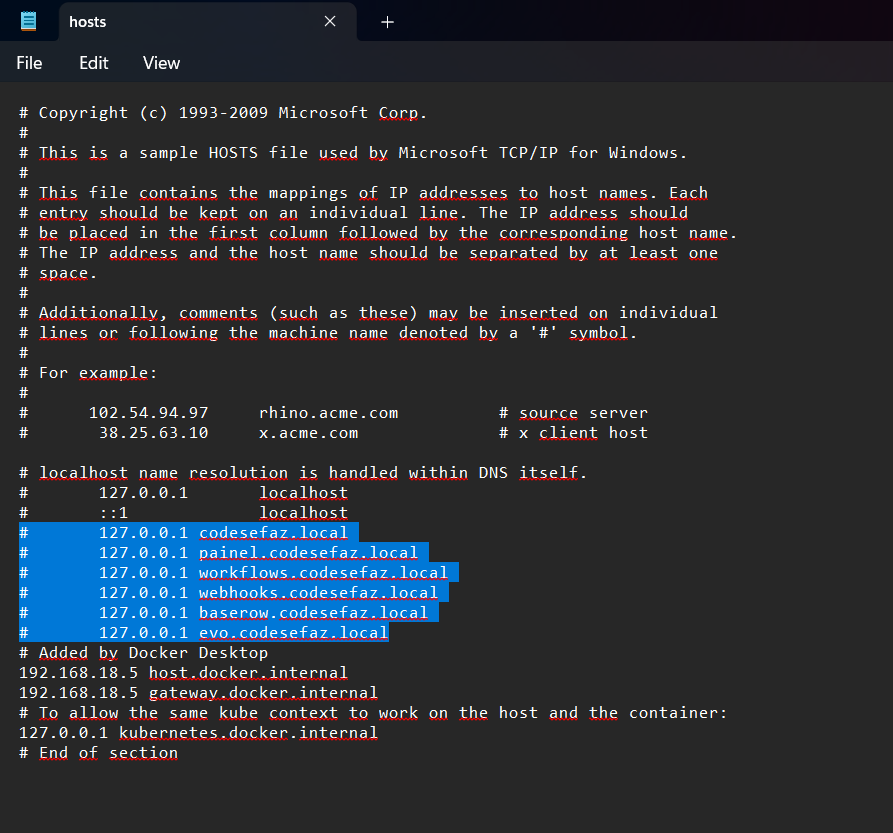
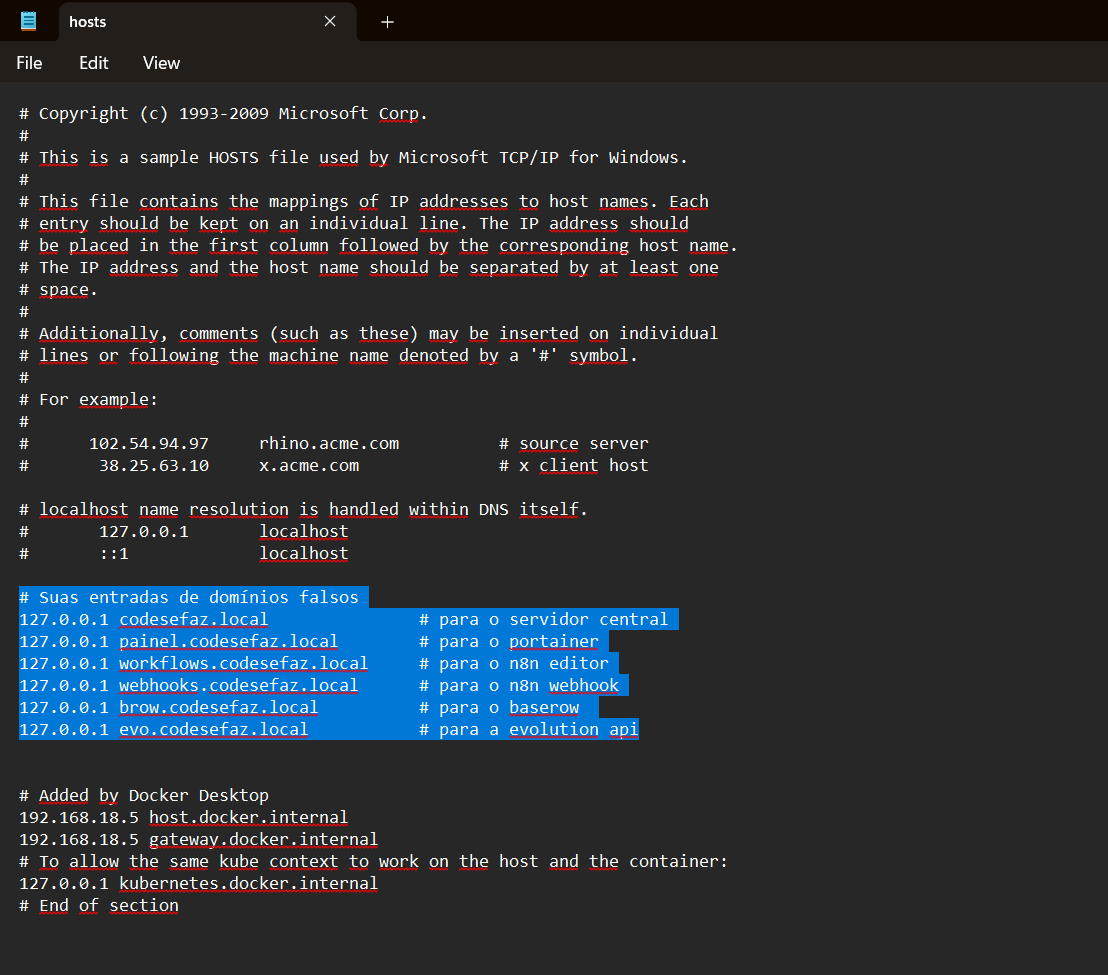
adicionado configuralçao parcial do traefik

Changed region(s): [[0.0, 0.0, 0.8163, 0.9364], [0.2721, 0.0, 0.6954, 0.0624]]

diff --git a/index.html b/index.html
@@ -640,7 +640,7 @@ sudo systemctl enable containerd.service
                             </li>
                             <li>
                                 <details>
-                                    <summary class="class-title">Aula 05 - Ativação do Modo Swarm no Docker</summary>
+                                    <summary class="class-title">Aula 05 - Ativação do <mark>Modo Swarm</mark> no Docker</summary>
 
                                     <div class="class-notes">
                                         <p>Ainda no manager do seu <mark>SSH</mark> copie e cole o código para iniciar o modo <mark>Swarm</mark> do Docker</p>
@@ -667,7 +667,7 @@ docker swarm init --advertise-addr=45.185.229.160
                                         <br>
                                         <div class="bash-code-notes">
                                             <div class="bash-code-notes-border"><h1>bash - Rede do Swarm</h1><pre><code class="language-bash">
-                                                docker network create --driver=overlay network_swarm_public
+docker network create --driver=overlay network_swarm_public
                                             </code></pre></div>
                                         </div>
                                     </div>
@@ -1443,18 +1443,34 @@ CREATE DATABASE baserow;
                             </li>
                             <li>
                                 <details>
-                                    <summary class="class-title">Passo 02 - Escolha um <mark>Domínio Falso</mark> Local:</summary>
+                                    <summary class="class-title">Passo 02 - Ativação do <mark>Modo Swarm</mark> no Docker</summary>
 
                                     <div class="class-notes">
-                                        <p>Como você não terá um domínio público, você usará um domínio que só existe na sua máquina local. Algo como <mark>codesefaz.local</mark></p>
+                                        <p>Agora que o <mark>docker</mark> está instalado na sua máquina, para ativar o <mark>modo swarm</mark> abra o terminal e digite o código</p>
+                                        <br>
+                                        <div class="bash-code-notes">
+                                            <div class="bash-code-notes-border"><h1>bash - Inicia o Swarm</h1><pre><code class="language-bash">
+docker swarm init
+                                            </code></pre></div>
+                                        </div>
+                                        <br>
+                                        <p>Agora para adicionar uma <mark>rede</mark> para o <mark>Swarm</mark></p>
+                                        <br>
+                                        <div class="bash-code-notes">
+                                            <div class="bash-code-notes-border"><h1>bash - Rede do Swarm</h1><pre><code class="language-bash">
+docker network create --driver=overlay network_swarm_public
+                                            </code></pre></div>
+                                        </div>
                                     </div>
                                 </details>
                             </li>
                             <li>
                                 <details>
-                                    <summary class="class-title">Passo 03 - Configurar a Resolução de Nomes Local <mark>(/etc/hosts)</mark></summary>
+                                    <summary class="class-title">Passo 03 - Configurar um <mark>Domínio Falso</mark> Local:<mark>(/etc/hosts)</mark></summary>
 
                                     <div class="class-notes">
+                                        <p>Como você não terá um domínio público, você usará um domínio que só existe na sua máquina local. Algo como <mark>codesefaz.local</mark></p>
+                                        <br>
                                         <p>Para que seu computador saiba que <mark>codesefaz.local</mark> e seus subdomínios (como <mark class="blue-mark">painel.codesefaz.local</mark> <small><i>( para o <mark>portainer</mark> )</i></small>, ou <mark class="blue-mark">workflows.codesefaz.local</mark> <small><i>( para o editor do <mark>n8n</mark> )</i></small> ) apontam para o seu próprio computador (localhost), você precisa editar o arquivo de hosts do seu sistema operacional.</p>
                                         <br>
                                         <p>No Windows: Edite o arquivo <mark>C:\Windows\System32\drivers\etc\hosts</mark> <small><i>( precisa de permissões de administrador )</i></small>.</p>
@@ -1466,13 +1482,117 @@ CREATE DATABASE baserow;
                                                 <br>127.0.0.1 painel.codesefaz.local <small><i>( para o portainer )</i></small>
                                                 <br>127.0.0.1 workflows.codesefaz.local <small><i>( para o n8n editor )</i></small>
                                                 <br>127.0.0.1 webhooks.codesefaz.local <small><i>( para o n8n webhook )</i></small>
-                                                <br>127.0.0.1 baserow.codesefaz.local <small><i>( para o baserow talvez melhor trocar o nome )</i></small>
+                                                <br>127.0.0.1 brow.codesefaz.local <small><i>( para o baserow talvez melhor trocar o nome )</i></small>
                                                 <br>127.0.0.1 evo.codesefaz.local <small><i>( para a evolution api )</i></small>
                                             </div>
                                         </p>
                                         <img src="assets/images/moduloLocalhost_passo03_02.png" alt="">
                                         <p><mark>No windows para conseguir salvar o arquivo depois de modificar você precisar abrir primeiro o bloco de notas em modo administrador e depois atravez do bloco de notas abrir a pasta e o arquivo, só assim será possível fazer as mudanças pois é um sistema de segurança do windows</mark></p>
+                                    </div>
+                                </details>
+                            </li>
+                            <li>
+                                <details>
+                                    <summary class="class-title">Passo 04 - configurar o certificado usando o <mark>mkcert</mark></summary>
 
+                                    <div class="class-notes">
+                                        <p>Você tem 3 opções para fazer essa instalação, usando o <mark>Chocolatey ou Scoop</mark> são as mais fáceis ou da <mark>forma manual</mark> mesmo que dá um pouco de trabalho</p>
+                                        <br>
+                                        <p><mark>Antes de realizar a instalação precisa já ter o docker instalado e os domínios configurados</mark></p>
+                                        <br>
+                                        <p>Método 3: Instalação Manual</p>
+                                        <br>
+                                        <p>Você pode baixar o executável <mark>mkcert.exe</mark> diretamente da página de releases do GitHub ( <a href="https://github.com/FiloSottile/mkcert/releases">mkcert/releases</a> ), mas você precisará colocá-lo em um diretório que esteja no seu PATH do sistema para poder executá-lo de qualquer lugar. </p>
+                                        <br>
+                                        <p>Role para baixo até a seção "Assets" da versão mais recente. Procure por um arquivo com um nome como <mark class="blue-mark">mkcert-vX.Y.Z-windows-amd64.exe</mark></p>
+                                        <br>
+                                        <p><mark>Renomeie este arquivo</mark> simplesmente para <mark class="blue-mark">mkcert.exe</mark></p>
+                                        <br>
+                                        <div class="left-text-aling">
+                                            <h3>Abra o Explorador de Arquivos.</h3>
+                                            <br>Navegue até um local de sua preferência (por exemplo, na raiz do seu drive C: ou dentro da sua pasta de usuário).
+                                            <br>Crie uma nova pasta. Por exemplo, crie a pasta <mark>C:\tools.</mark>
+                                            <br>Coloque o arquivo <mark class="blue-mark">mkcert.exe</mark> dentro dessa pasta. <small><i>( ex: C:\tools\mkcert.exe ).</i></small>
+                                        </div>
+                                        <br>
+                                        <div class="left-text-aling">
+                                            <h3>Adicionar o Diretório ao <mark>Variável de Ambiente Path</mark></h3>
+                                            <br>Clique no botão Iniciar do Windows.
+                                            <br>Digite "variáveis de ambiente" na barra de pesquisa.
+                                            <br>Clique em <mark>Editar as variáveis de ambiente do sistema</mark> (ou <mark>Editar variáveis de ambiente para sua conta</mark>, se você não tiver permissões de administrador ou preferir que o <mark>mkcert</mark> só funcione para o seu usuário. Editar para o sistema é geralmente mais útil). Uma janela chamada "Propriedades do Sistema" será aberta na aba "Avançado".
+                                            <br>Clique no botão <mark>Variáveis de Ambiente...</mark> na parte inferior da janela <mark class="blue-mark">Propriedades do Sistema</mark>.
+                                            <br>
+                                            <br>
+                                            <h3>Na janela <mark>Variáveis de Ambiente</mark>, você verá duas seções: <mark class="blue-mark">Variáveis de usuário</mark> e <mark class="blue-mark">Variáveis do sistema</mark></h3>
+                                            <br>Se você escolheu editar para o <mark class="blue-mark">sistema</mark>, procure pela variável chamada <mark>Path</mark> na seção <mark>Variáveis do sistema</mark>.
+                                            <br>Se você escolheu editar para sua <mark class="blue-mark">conta</mark>, procure pela variável chamada <mark>Path</mark> na seção <mark class="blue-mark">Variáveis de usuário</mark>. <small><i>( Recomendação: Editar a variável <mark>Path</mark> na seção <mark class="blue-mark">Variáveis de usuário</mark> é geralmente mais seguro e não requer permissões administrativas elevadas a todo momento, a menos que você queira que o mkcert esteja disponível para todos os usuários da máquina. )</i></small>
+                                            <br>Selecione a variável <mark>Path</mark> <small><i>( na seção de usuário ou sistema, conforme sua escolha )</i></small> e clique em <mark>Editar...</mark>.
+                                            <br>Uma nova janela <mark class="blue-mark">Editar variável de ambiente</mark> será aberta. Esta janela mostrará uma lista de diretórios (em versões modernas do Windows).
+                                            <br>Clique no botão <mark class="blue-mark">Novo</mark>.
+                                            <br>Digite o caminho completo para o diretório que você criou <small><i>( ex: C:\tools )</i></small>.
+                                            <br>Pressione Enter para confirmar a nova entrada.
+                                            <br>Clique em <mark class="blue-mark">OK</mark> em todas as janelas abertas <small><i>( <mark class="blue-mark">Editar variável de ambiente</mark>, <mark class="blue-mark">Variáveis de Ambiente</mark>, <mark class="blue-mark">Propriedades do Sistema</mark> )</i></small> para salvar as mudanças.
+                                            <br>
+                                            <br>
+                                            <h3>Verificar se Funciona</h3>
+                                            <br>As mudanças na variável <mark>Path</mark> geralmente só entram em vigor em novas janelas do Prompt de Comando ou PowerShell que são abertas após a modificação.
+                                            <br>Feche qualquer Terminal que esteja aberto.
+                                            <br>Abra um novo Terminal.
+                                            <br>Digite o comando <mark>mkcert --version</mark> e pressione Enter.
+                                            <br>Se tudo estiver correto, você verá a versão do <mark>mkcert</mark> instalada.
+                                        </div>
+                                        <br>
+                                        <p>Perfeito. Uma vez que o mkcert.exe está no seu Path e você consegue executá-lo de qualquer lugar, o próximo passo é instalar a Autoridade Certificadora (CA) local.</p>
+                                        <br>
+                                        <p>Este passo é essencial porque é ele que faz com que os certificados que o mkcert vai gerar depois sejam confiáveis no seu sistema operacional e, consequentemente, nos seus navegadores (como o LibreWolf) e outras aplicações que utilizam o armazenamento de certificados do Windows.</p>
+                                        <br>
+                                        <p>Abra o Terminal <small><i>( Recomendado como Administrador )</i></small></p>
+                                        <br>
+                                        <p>Execute o Comando de Instalação da CA: No terminal que você abriu como administrador, digite o seguinte comando e pressione Enter:</p>
+                                        <br>
+                                        <div class="bash-code-notes">
+                                            <div class="bash-code-notes-border"><h1>bash - Instalando a CA</h1><pre><code class="language-bash">
+mkcert -install
+                                            </code></pre></div>
+                                        </div>
+                                        <br>
+                                        <p>Pode aparecer uma tela de segurança, Confirme o UAC clicando em <mark>sim</mark> (se aparecer)</p>
+                                        <br>
+                                        <p>As mensagens no Terminal deve ser como na imagem</p>
+                                        <img src="assets/images/moduloLocalhost_passo04_01.png" alt="">
+                                        <p>Com a CA local instalada e confiada, agora podemos gerar os certificados específicos para os domínios falsos no arquivo <mark class="blue-mark">hosts</mark></p>
+                                        <br>
+                                        <p>Abra um Prompt de Comando ou PowerShell NORMAL: Você não precisa de privilégios de administrador para gerar certificados. Abra um terminal comum.</p>
+                                        <br>
+                                        <p>Navegue até a Pasta Correta: Use o comando cd para ir até a pasta onde você pretende guardar os arquivos YAML do seu stack do <mark>traefik</mark> e onde você criará a pasta <mark>certs</mark> que será montada no Traefik. <small><i>( Exemplo: cd C:\Users\SeuUsuario\MeusProjetos\MeuStackN8N )</i></small></p>
+                                        <br>
+                                        <p>Dentro desse diretório crie a Pasta <mark class="blue-mark">certs</mark> e abra ela</p>
+                                        <br>
+                                        <p><mark>Execute o Comando mkcert com seus Domínios</mark> listando todos os domínios falsos que você quer que o certificado seja válido, incluindo o wildcard e IPs locais. Digite o comando cuidadosamente</p>
+                                        <br>
+                                        <div class="bash-code-notes">
+                                            <div class="bash-code-notes-border"><h1>bash - Gerando o certificado</h1><pre><code class="language-bash">
+mkcert codesefaz.local painel.codesefaz.local workflows.codesefaz.local webhooks.codesefaz.local brow.codesefaz.local evo.codesefaz.local "*.codesefaz.local" localhost 127.0.0.1 ::1
+                                            </code></pre></div>
+                                        </div>
+                                        <br>
+                                        <p>Após usar o comando deverá ficar como na imagem a seguir</p>
+                                        <img src="assets/images/moduloLocalhost_passo04_02.png" alt="">
+                                        <p>Os arquivos <mark>.pem</mark> e <mark>.key</mark> será para montar no contêiner do Traefik e configurar o Traefik para usar, permitindo que seus serviços locais rodem com HTTPS confiável.</p>
+                                        <br>
+                                        <p><mark>Não será nescessário adicionar mais certificados caso adicione mais SSLs falsos pois o coringa .codesefaz.local será responsável pelos novos SSLs</mark></p>
+                                        <br>
+                                        <p>Agora que você já tem os certificados, o próximo passo é configurar o Traefik para usar esses certificados e criar um stack do Traefik.</p>
+                                        <br>
+                                        <p>Abra o local usando o <mark>terminal</mark> ou usando o <mark>vscode</mark> e digite o código</p>
+                                        <br>
+                                        <div class="bash-code-notes">
+                                            <div class="bash-code-notes-border"><h1>bash - Criando o stack do Traefik</h1><pre><code class="language-bash">
+docker stack deploy --prune --detach=false --resolve-image always -c traefik-v2.yaml traefik-v2
+                                            </code></pre></div>
+                                        </div>
+                                        <br>
+                                        <p>Agora para verificar se o <mark>traefik</mark> está rodando, abra o navegador e digite o endereço <mark>http://painel.codesefaz.local:8080</mark></p>
                                     </div>
                                 </details>
                             </li>
